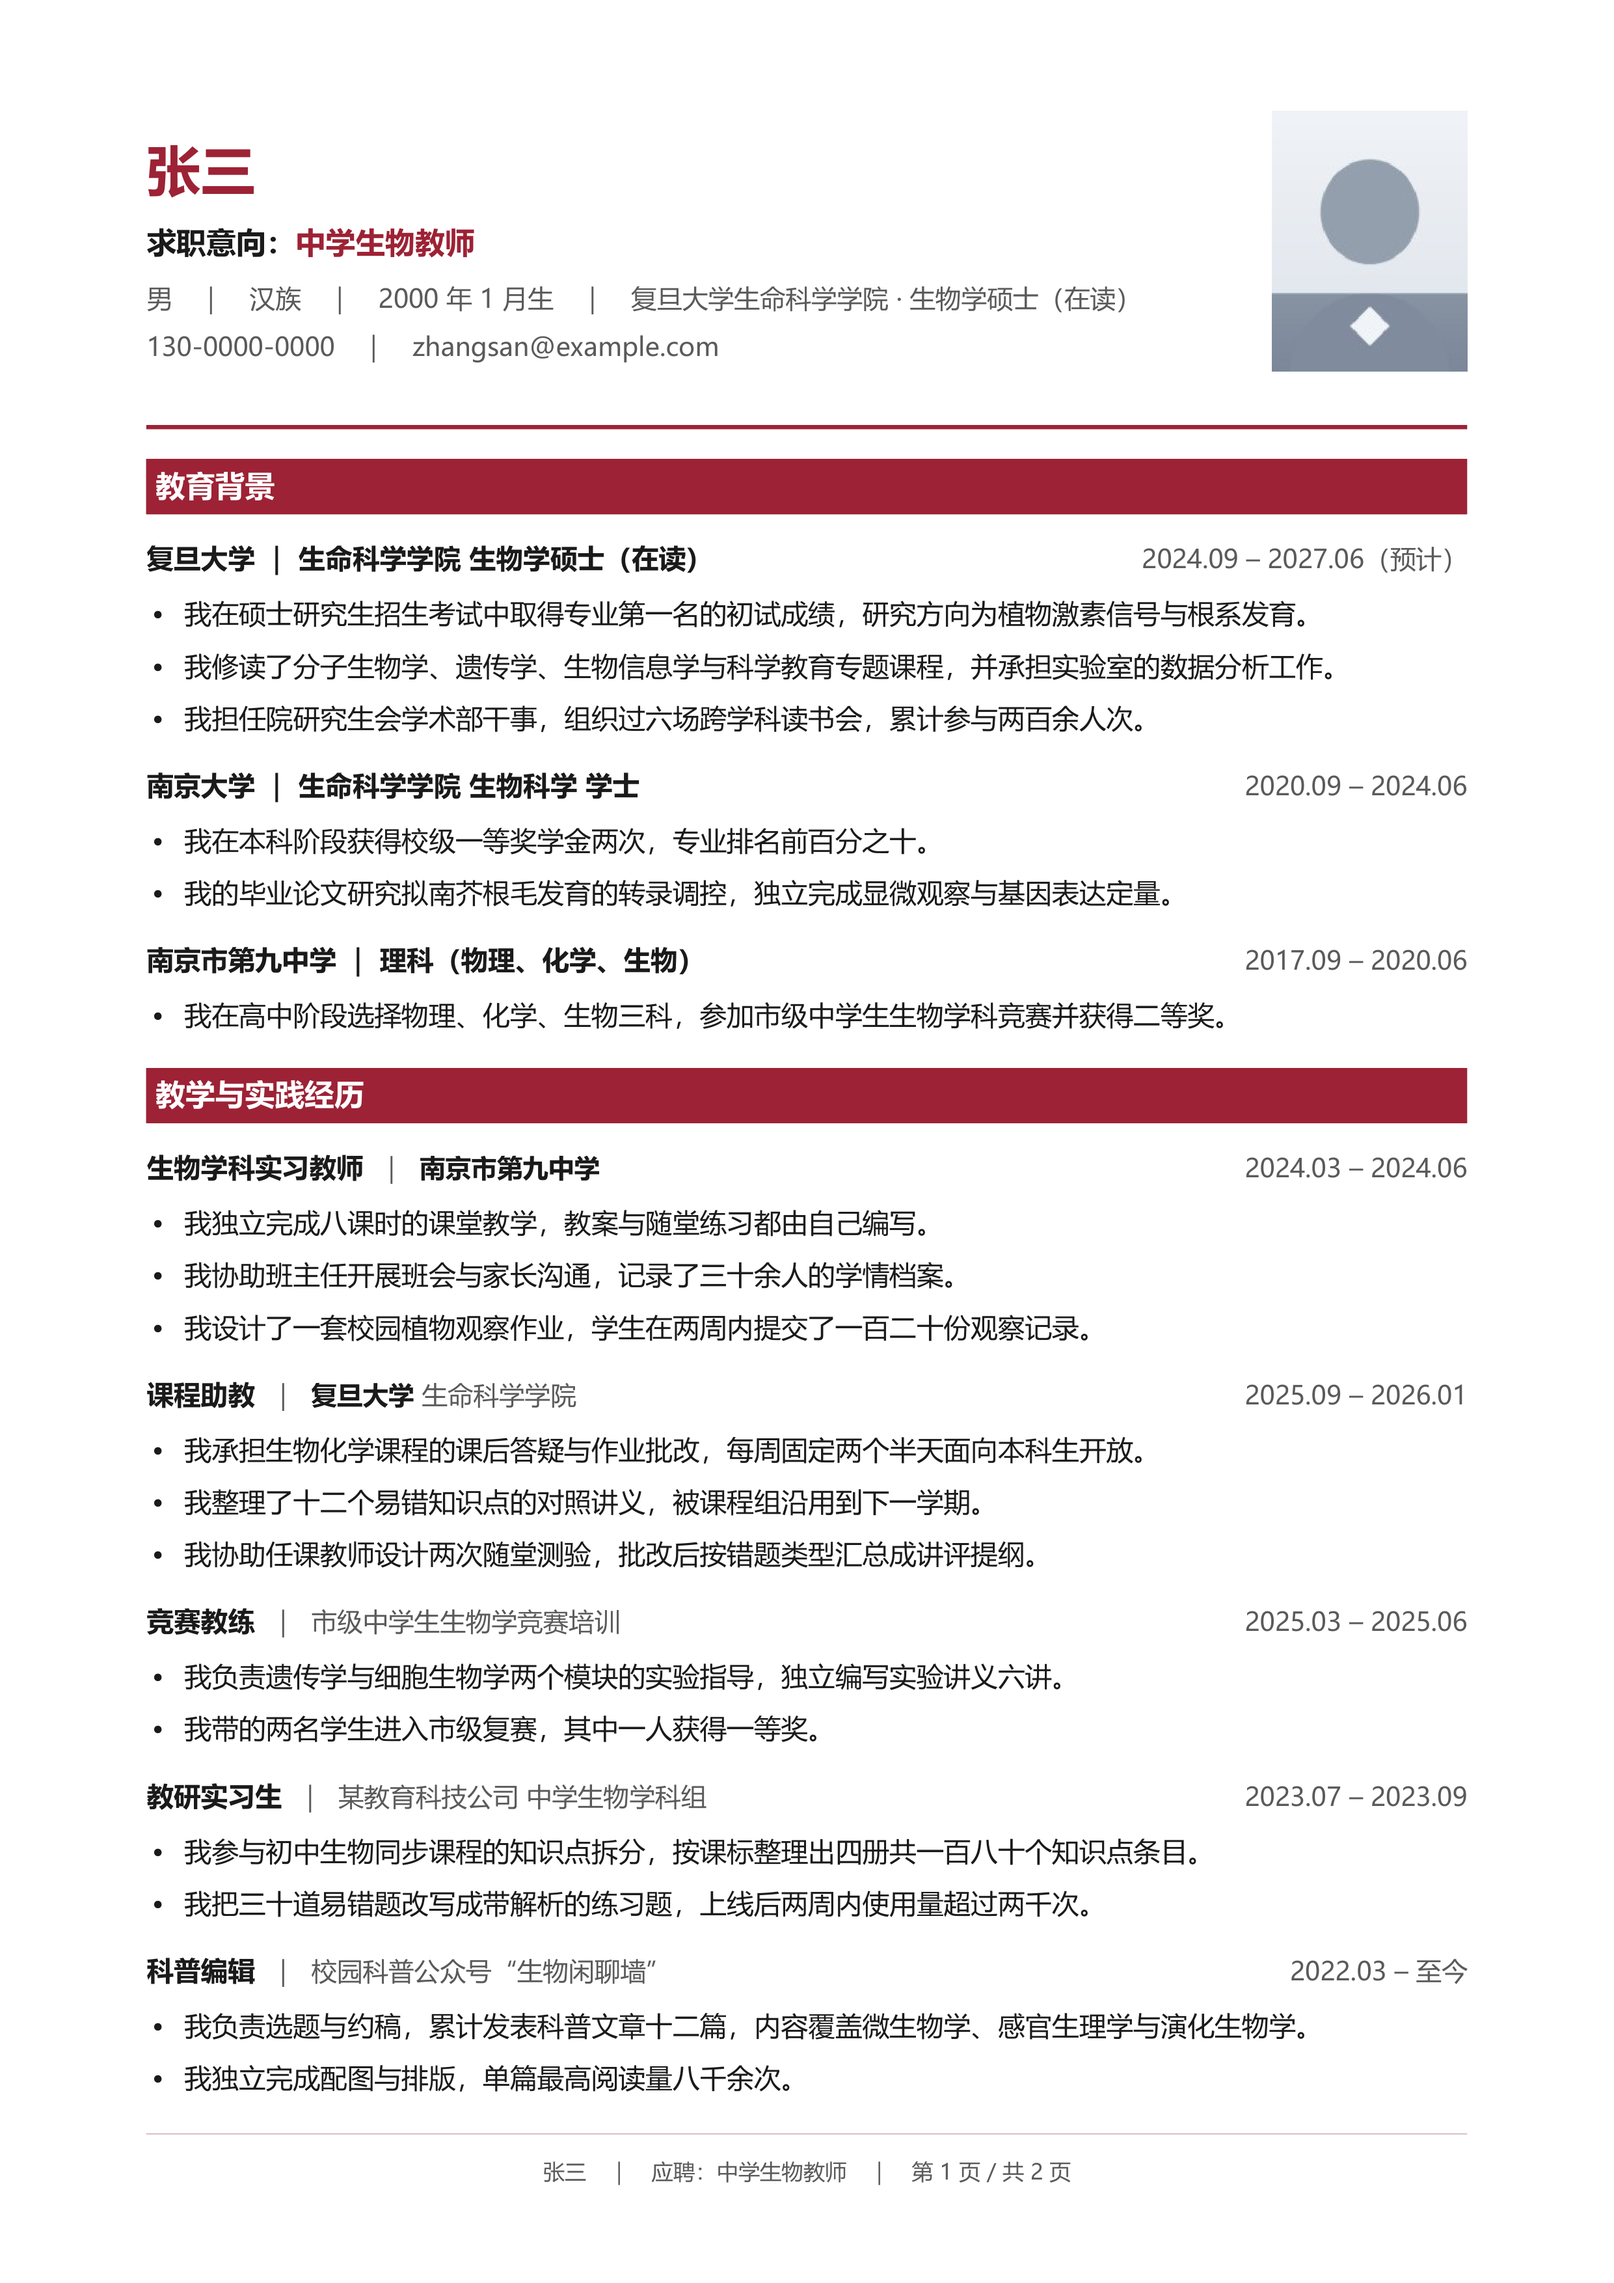
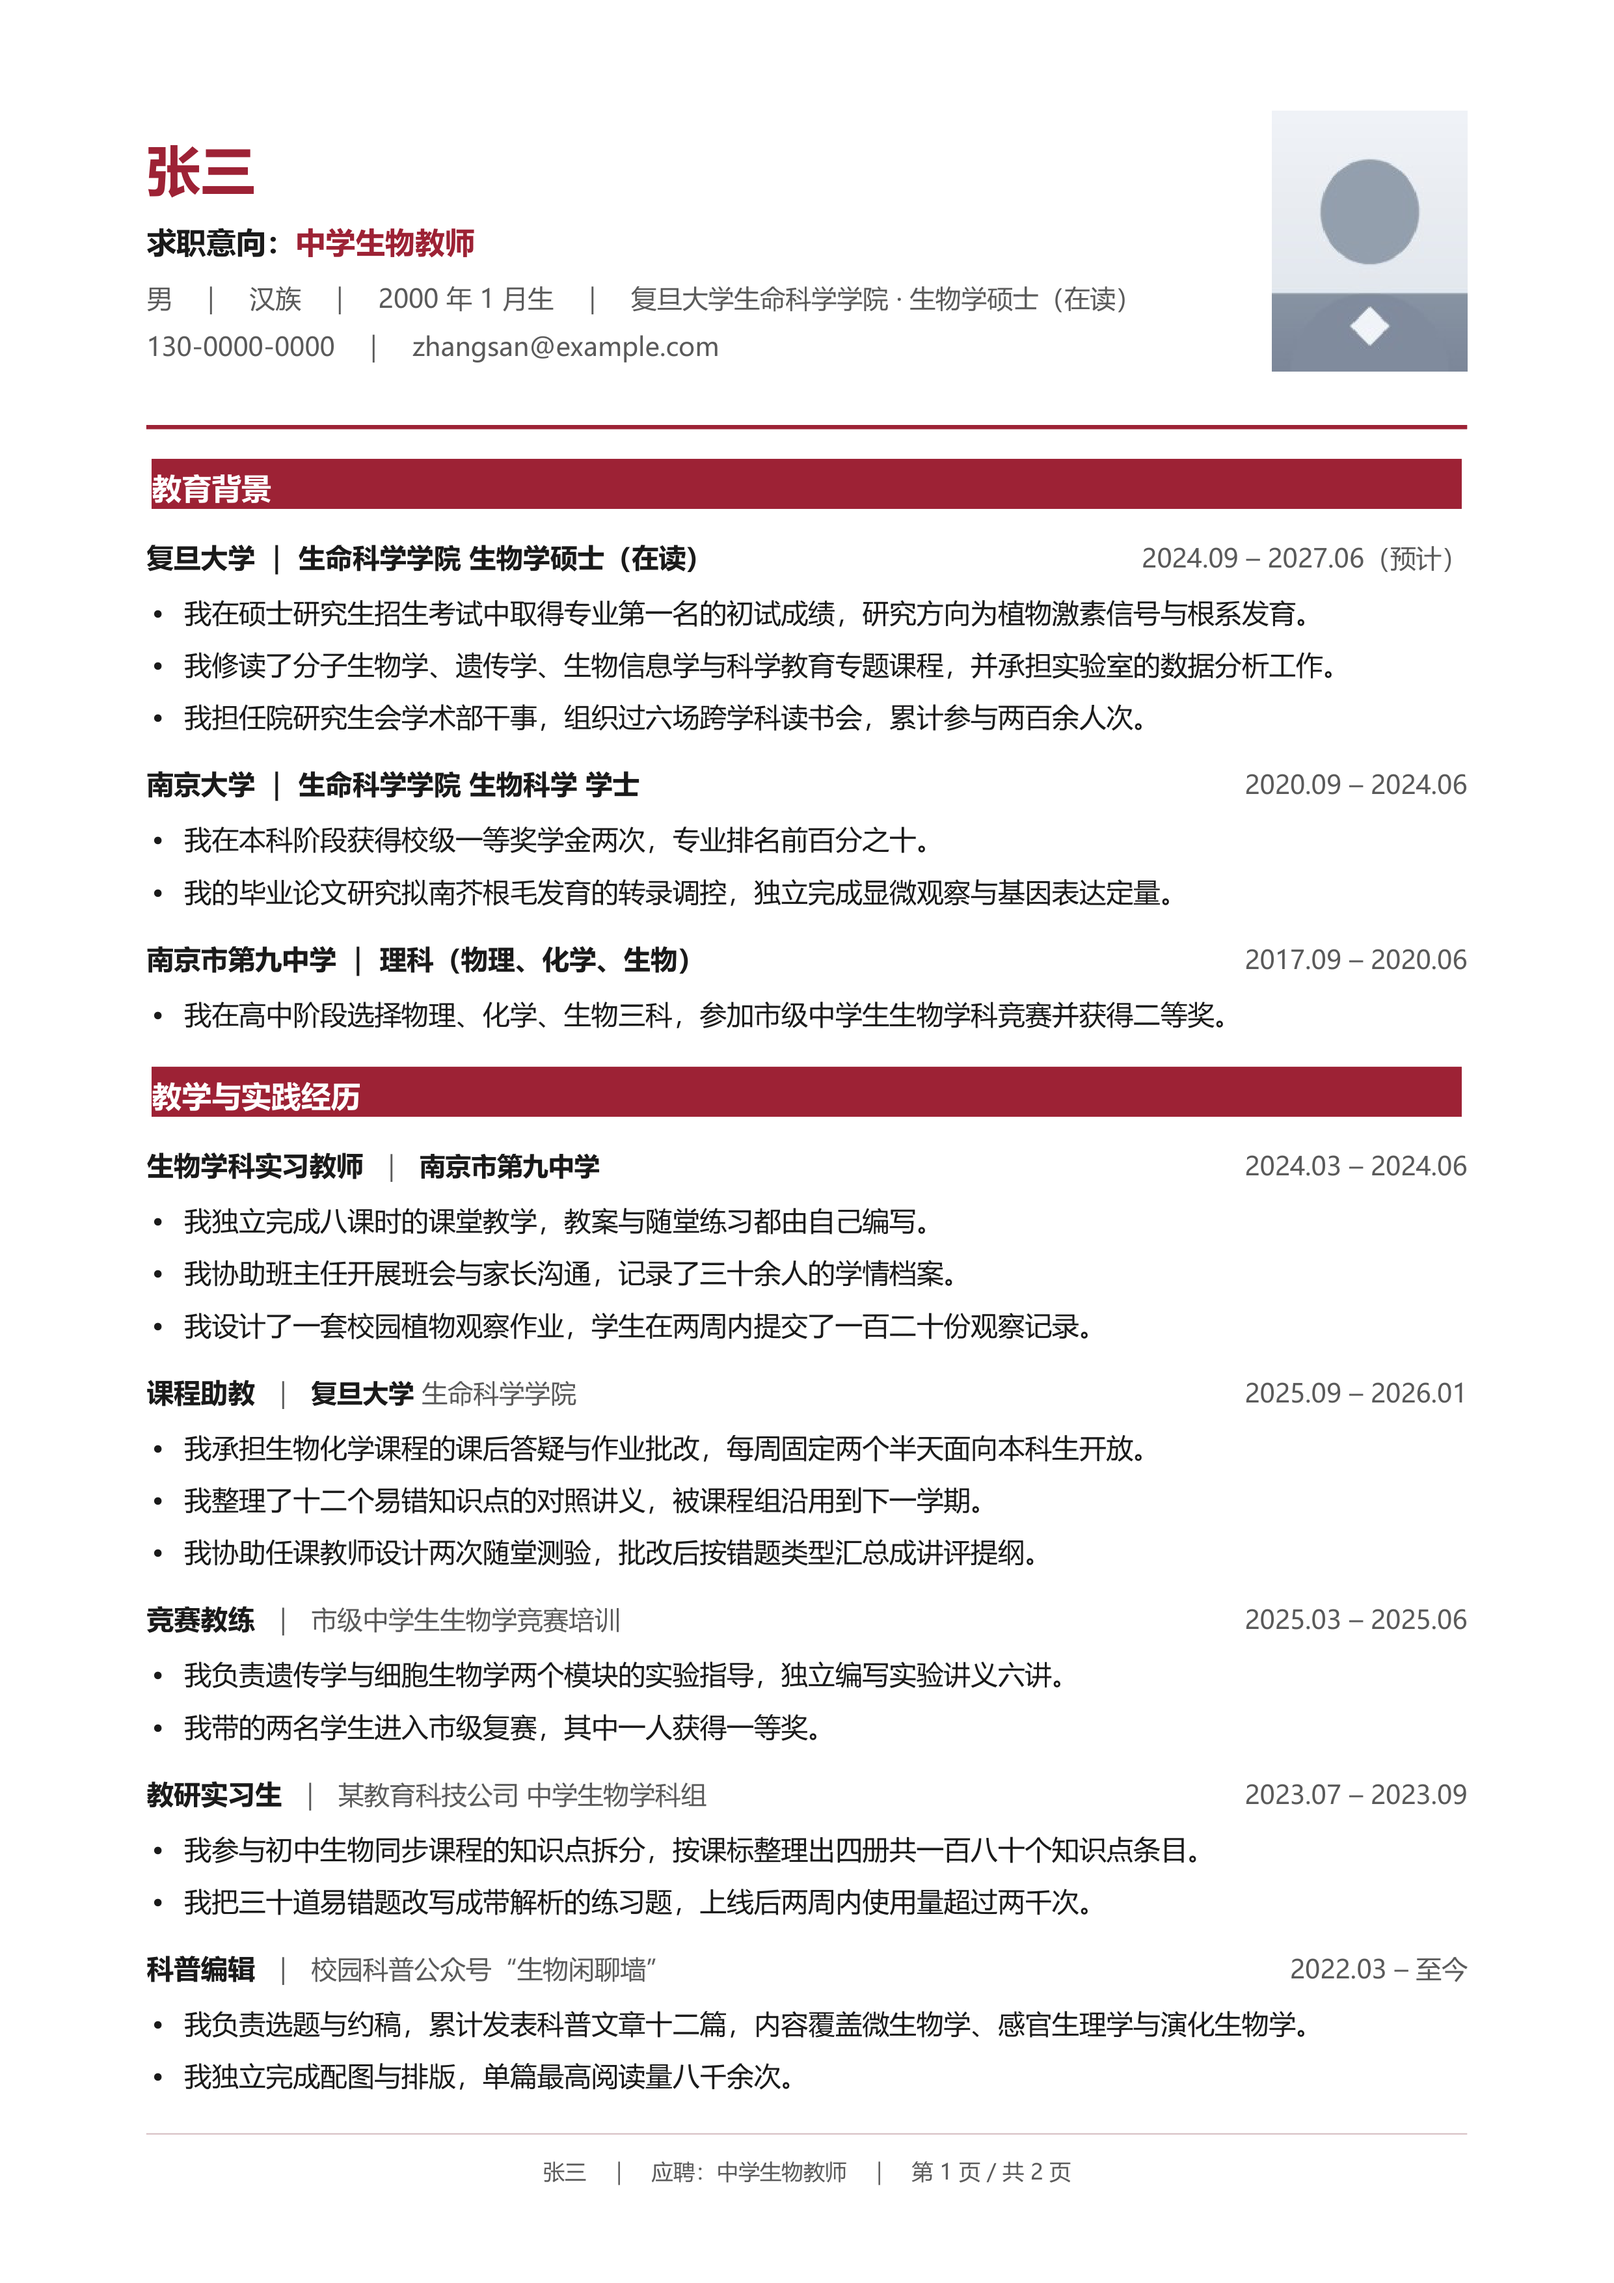
fix: 分区条属性改回定稿脚本原值, 与 LibreOffice 流程逐项一致

diff --git a/src/render-docx.js b/src/render-docx.js
@@ -76,25 +76,24 @@ function makeRuns(template) {
   const sectionBar = (title) => {
     const cfg = SP.section || {};
     records.push(String(title));
-    const barHeight = cfg.heightPt || 20.4;
-    const lift = cfg.titleLiftHalfPt === undefined ? 4 : cfg.titleLiftHalfPt;
-
-    // 段落实现，条高固定。段落底色做不到垂直居中：行距全落在字上方，白字偏低。
-    // 用 w:position 把白字上抬若干半磅来补正，实测抬 2 pt 后上下留白相等。
-    // 不用表格：LibreOffice 会在表格周围加间距，条上下的留白会翻倍。
+    // 属性与定稿脚本逐字一致：shading + before/after/line(auto) + 左右缩进，
+    // 子元素只有一个白字 run。不加 keepNext、不加前置空格、不加 position，
+    // 这三样都会写进 DOCX，LibreOffice 照做，结果就与原流程不同。
     return [
       new Paragraph({
-        keepNext: true,
         shading: { type: ShadingType.CLEAR, fill: C.primary },
-        indent: { left: cfg.indentLeft || 0, right: cfg.indentRight || 0 },
-        spacing: Object.assign(
-          { before: cfg.before === undefined ? 220 : cfg.before, after: cfg.after === undefined ? 96 : cfg.after },
-          { line: Math.round(barHeight * 20), lineRule: LineRuleType.EXACT }
+        spacing: makeSpacing(
+          template,
+          cfg.before === undefined ? 220 : cfg.before,
+          cfg.after === undefined ? 96 : cfg.after,
+          cfg.line === undefined ? 260 : cfg.line,
+          LH.section || 20
         ),
-        children: [
-          ...(cfg.textInset ? [new TextRun({ text: cfg.textInset, font: FONT, size: halfPt(T.sectionTitle), color: 'FFFFFF' })] : []),
-          new TextRun({ text: title, font: FONT, size: halfPt(T.sectionTitle), bold: true, color: 'FFFFFF', position: lift }),
-        ],
+        indent: {
+          left: cfg.indentLeft === undefined ? 40 : cfg.indentLeft,
+          right: cfg.indentRight === undefined ? 40 : cfg.indentRight,
+        },
+        children: [new TextRun({ text: title, font: FONT, size: halfPt(T.sectionTitle), bold: true, color: 'FFFFFF' })],
       }),
     ];
   };
